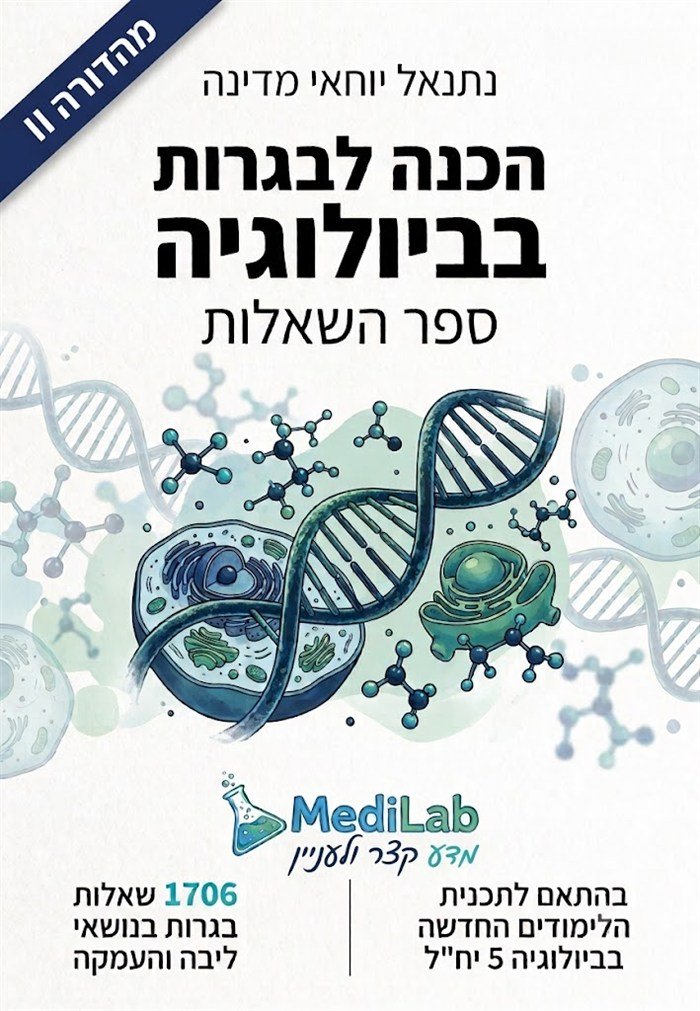
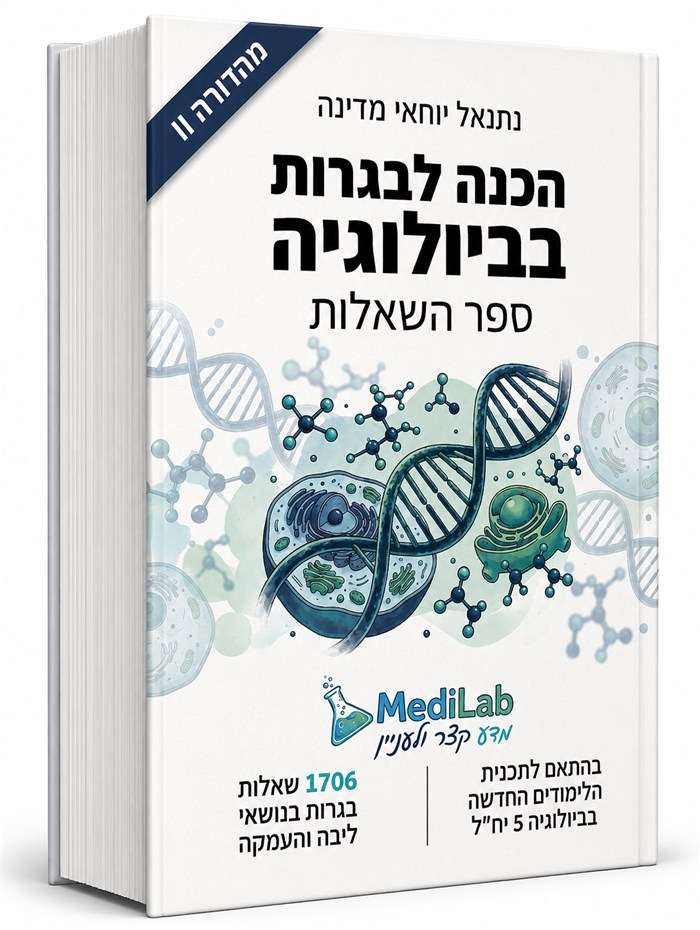
Update questions-book cover to the new DNA/cell artwork
- Replace book-questions.jpg + -lg with the newly supplied cover
  (cell + double-helix illustration, מהדורה II ribbon, 1706 questions)
- Fix the img height attribute 1011 → 930 to match the real 700x930
  aspect, so the cover no longer renders stretched

diff --git a/index.html b/index.html
@@ -1059,7 +1059,7 @@
       <article class="bcard reveal">
         <div class="bcover">
           <span class="book-hot" aria-hidden="true">★ רב-מכר</span>
-          <img src="book-questions.jpg" alt="כריכת ספר השאלות — הכנה לבגרות בביולוגיה 5 יחידות" width="700" height="1011" loading="lazy" />
+          <img src="book-questions.jpg" alt="כריכת ספר השאלות — הכנה לבגרות בביולוגיה 5 יחידות" width="700" height="930" loading="lazy" />
           <button class="bzoom" data-full="book-questions-lg.jpg" data-alt="כריכת ספר השאלות — הכנה לבגרות בביולוגיה 5 יח״ל" aria-label="הגדלת כריכת ספר השאלות"><svg width="18" height="18" viewBox="0 0 24 24" fill="none" stroke="currentColor" stroke-width="2" stroke-linecap="round" stroke-linejoin="round" aria-hidden="true"><circle cx="11" cy="11" r="7"/><path d="m21 21-4.3-4.3"/></svg></button>
         </div>
         <div>
